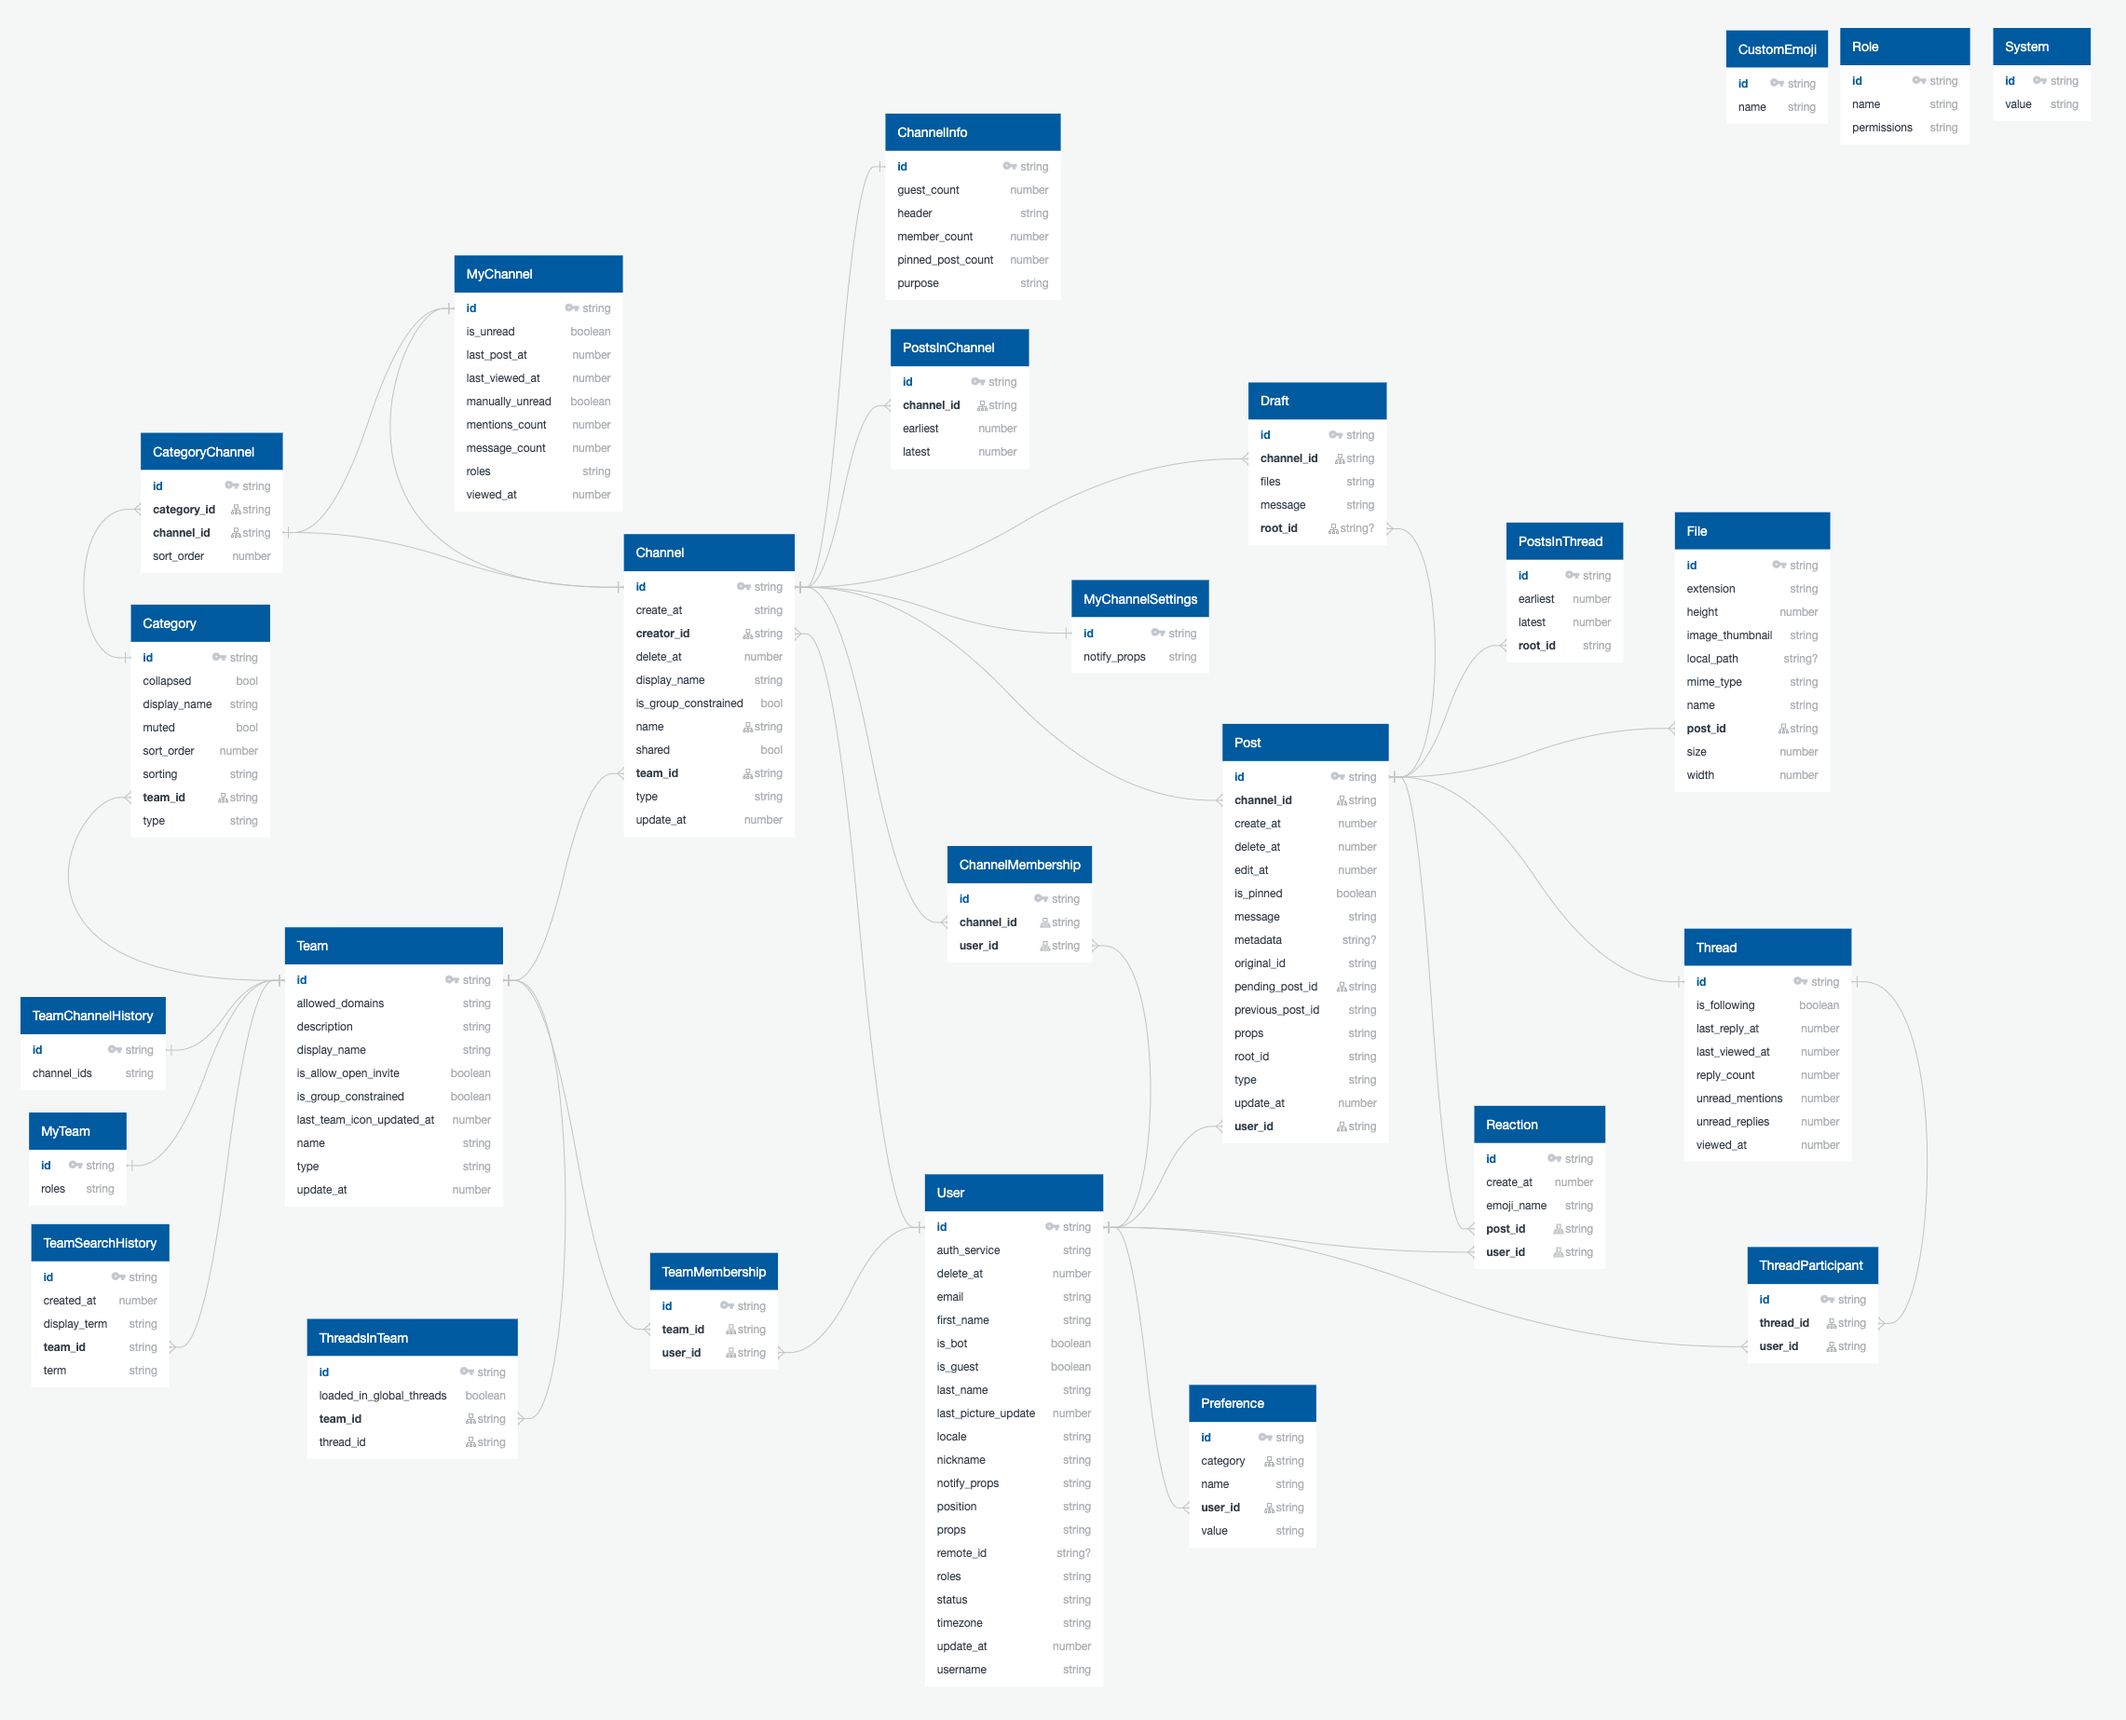
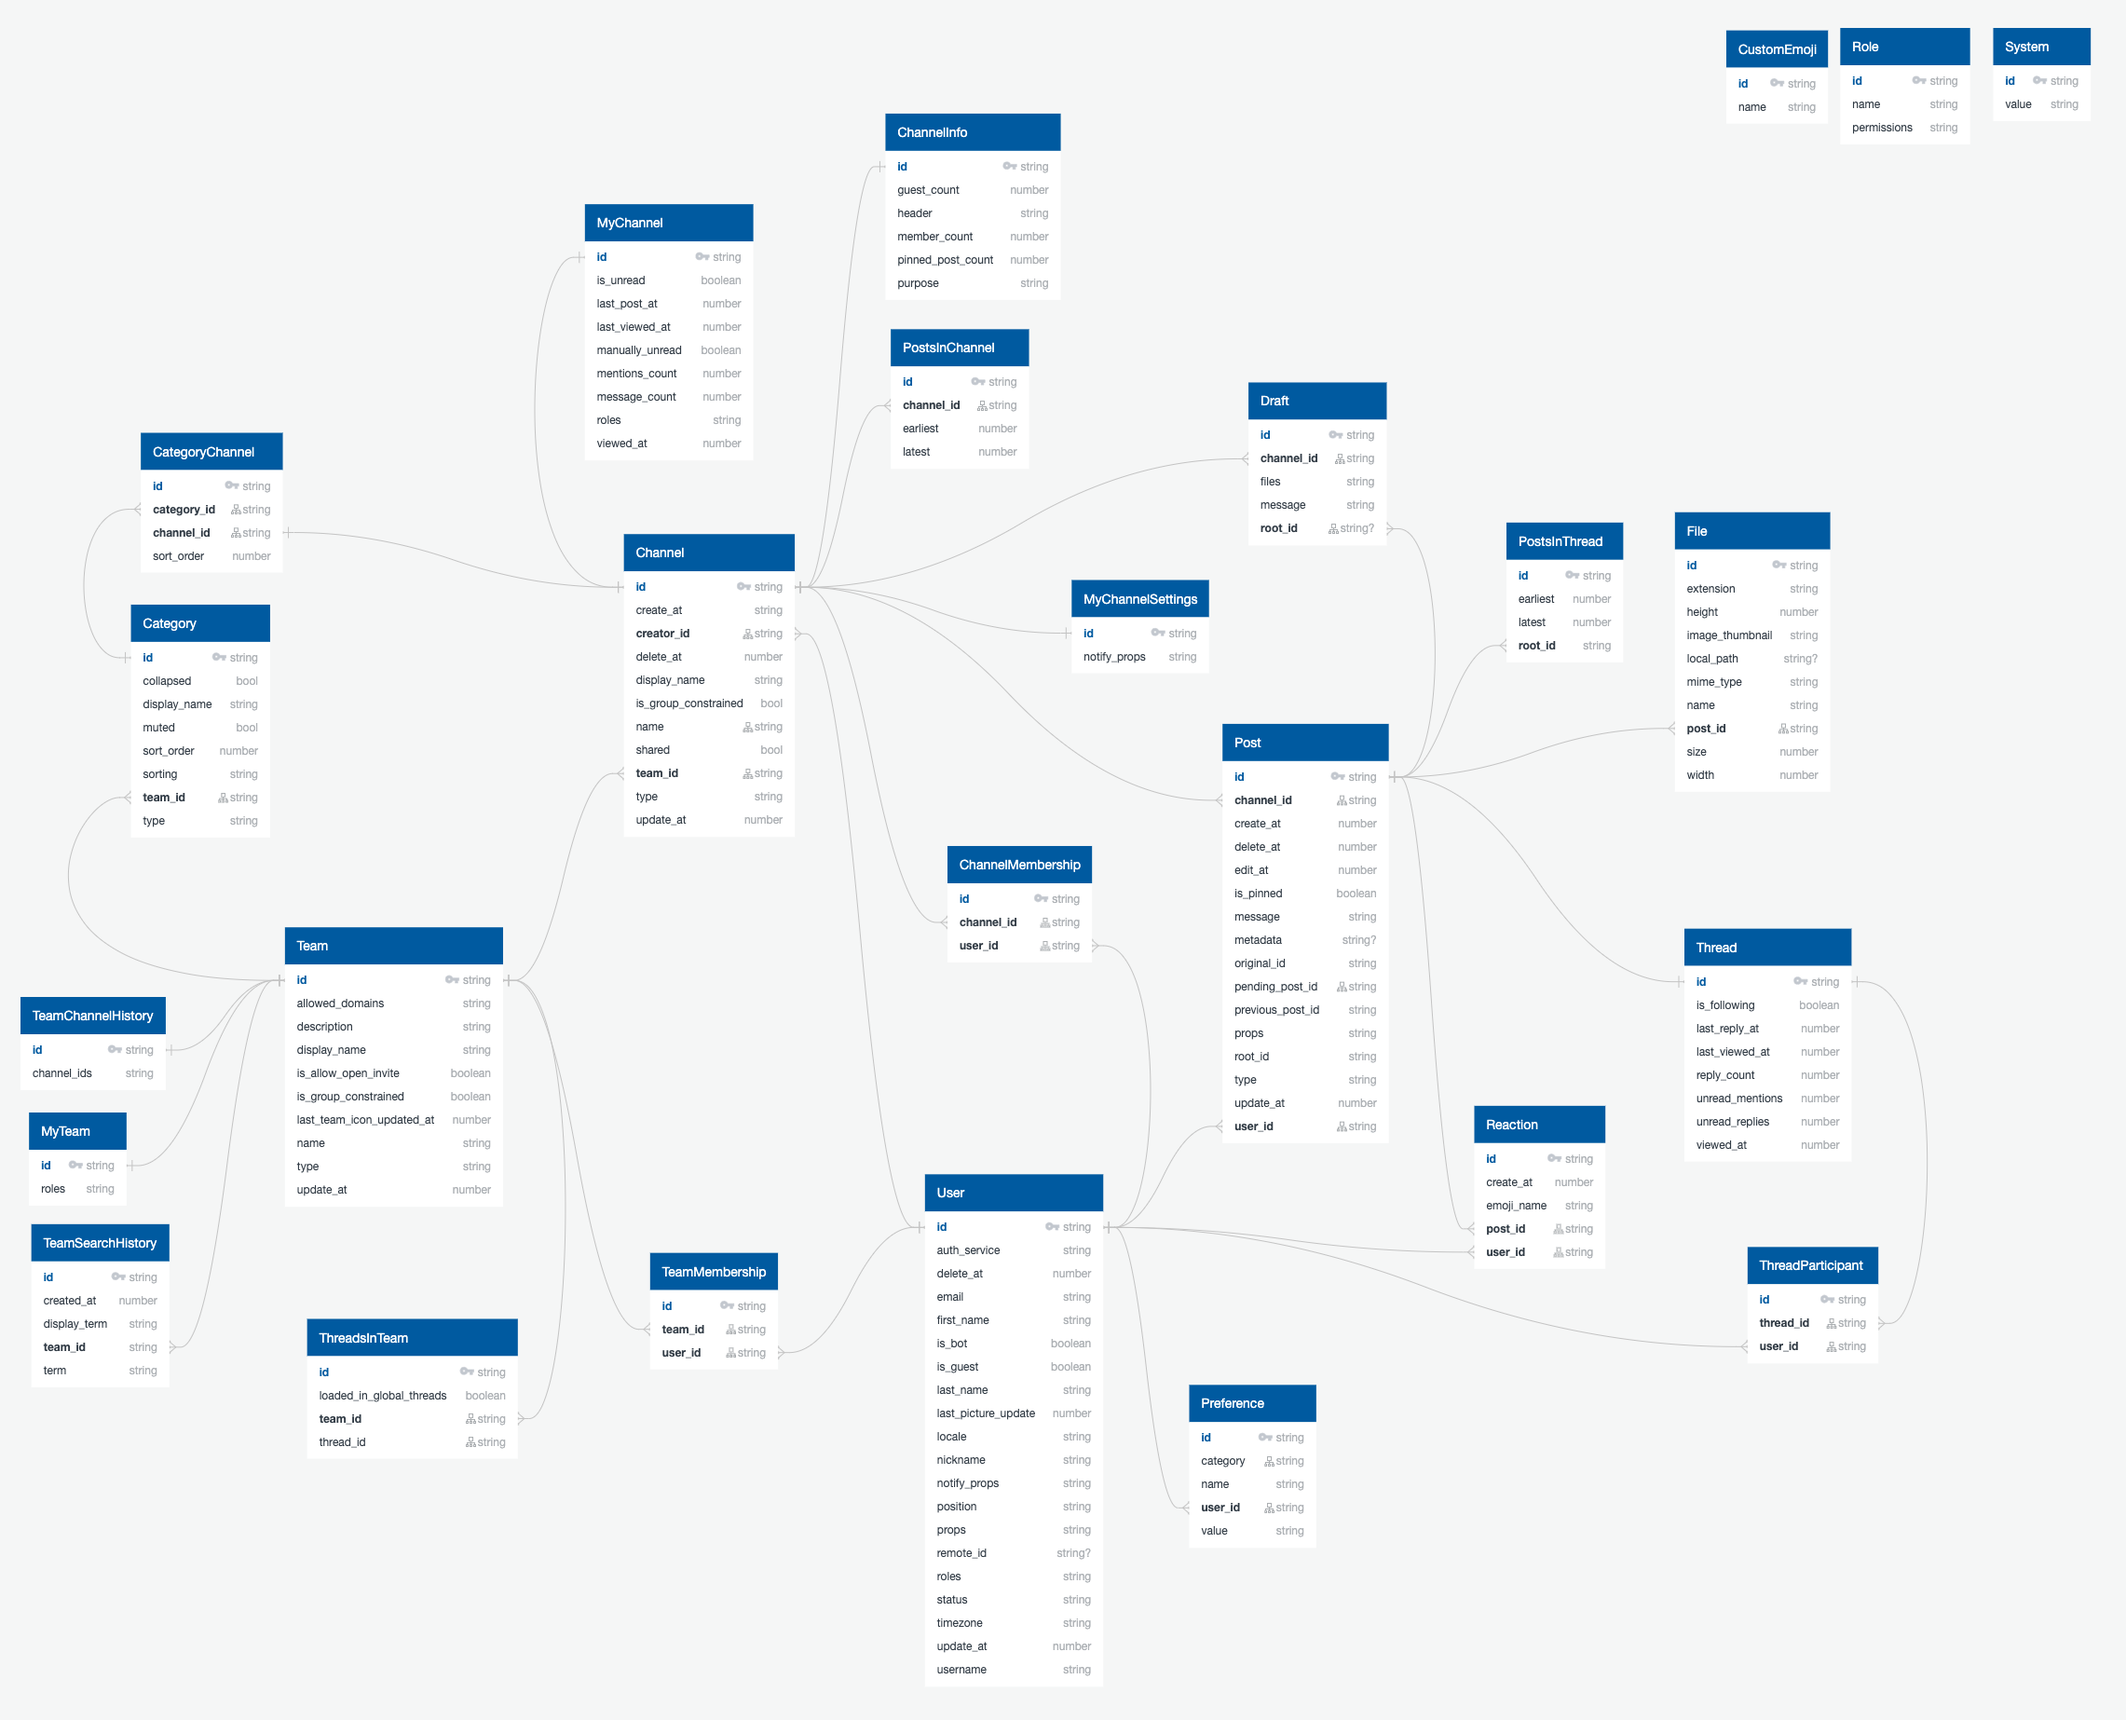
removed cyclic relationship

Changed region(s): [[0.2178, 0.0926, 0.3734, 0.2779]]

diff --git a/app/database/models/server/category_channel.ts b/app/database/models/server/category_channel.ts
@@ -10,9 +10,8 @@ import {MM_TABLES} from '@constants/database';
 import type CategoryModel from '@typings/database/models/servers/category';
 import type CategoryChannelInterface from '@typings/database/models/servers/category_channel';
 import type ChannelModel from '@typings/database/models/servers/channel';
-import type MyChannelModel from '@typings/database/models/servers/my_channel';
 
-const {CATEGORY_CHANNEL, CATEGORY, MY_CHANNEL, CHANNEL} = MM_TABLES.SERVER;
+const {CATEGORY_CHANNEL, CATEGORY, CHANNEL} = MM_TABLES.SERVER;
 
 /**
  * The CategoryChannel model represents the 'association table' where many categories have channels and many channels are in
@@ -30,9 +29,6 @@ export default class CategoryChannelModel extends Model implements CategoryChann
 
         /** A CategoryChannel has a Channel */
         [CHANNEL]: {type: 'belongs_to', key: 'channel_id'},
-
-        /** A CategoryChannel has a MyChannel */
-        [MY_CHANNEL]: {type: 'belongs_to', key: 'channel_id'},
     };
 
     /** category_id : The foreign key to the related Category record */
@@ -49,7 +45,4 @@ export default class CategoryChannelModel extends Model implements CategoryChann
 
     /** channel : The related channel */
     @immutableRelation(CHANNEL, 'channel_id') channel!: Relation<ChannelModel>;
-
-    /** myChannel : The related myChannel */
-    @immutableRelation(MY_CHANNEL, 'channel_id') myChannel!: Relation<MyChannelModel>;
 }

diff --git a/app/database/models/server/my_channel.ts b/app/database/models/server/my_channel.ts
@@ -10,7 +10,7 @@ import {MM_TABLES} from '@constants/database';
 import type ChannelModel from '@typings/database/models/servers/channel';
 import type MyChannelModelInterface from '@typings/database/models/servers/my_channel';
 
-const {CATEGORY_CHANNEL, CHANNEL, MY_CHANNEL} = MM_TABLES.SERVER;
+const {CHANNEL, MY_CHANNEL} = MM_TABLES.SERVER;
 
 /**
  * MyChannel is an extension of the Channel model but it lists only the Channels the app's user belongs to
@@ -21,7 +21,6 @@ export default class MyChannelModel extends Model implements MyChannelModelInter
 
     static associations: Associations = {
         [CHANNEL]: {type: 'belongs_to', key: 'id'},
-        [CATEGORY_CHANNEL]: {type: 'has_many', foreignKey: 'channel_id'},
     };
 
     /** last_post_at : The timestamp for any last post on this channel */

diff --git a/types/database/models/servers/category_channel.d.ts b/types/database/models/servers/category_channel.d.ts
@@ -6,7 +6,6 @@ import Model, {Associations} from '@nozbe/watermelondb/Model';
 
 import type CategoryModel from './category';
 import type ChannelModel from './channel';
-import type MyChannelModel from './my_channel';
 
 /**
  * The CategoryChannel model represents the 'association table' where many categories have channels and many channels are in
@@ -33,7 +32,4 @@ export default class CategoryChannelModel extends Model {
 
     /** channel : The related channel */
     channel: Relation<ChannelModel>;
-
-    /** myChannel : The related myChannel */
-    myChannel: Relation<MyChannelModel>;
 }

diff --git a/docs/database/server_database/server-database.md b/docs/database/server_database/server-database.md
@@ -22,7 +22,7 @@ CategoryChannel
 -
 id PK string # composition ID Team.id_Channel.id
 category_id string INDEX FK >- Category.id
-channel_id string INDEX FK - MyChannel.id
+channel_id string INDEX
 sort_order number
 
 
